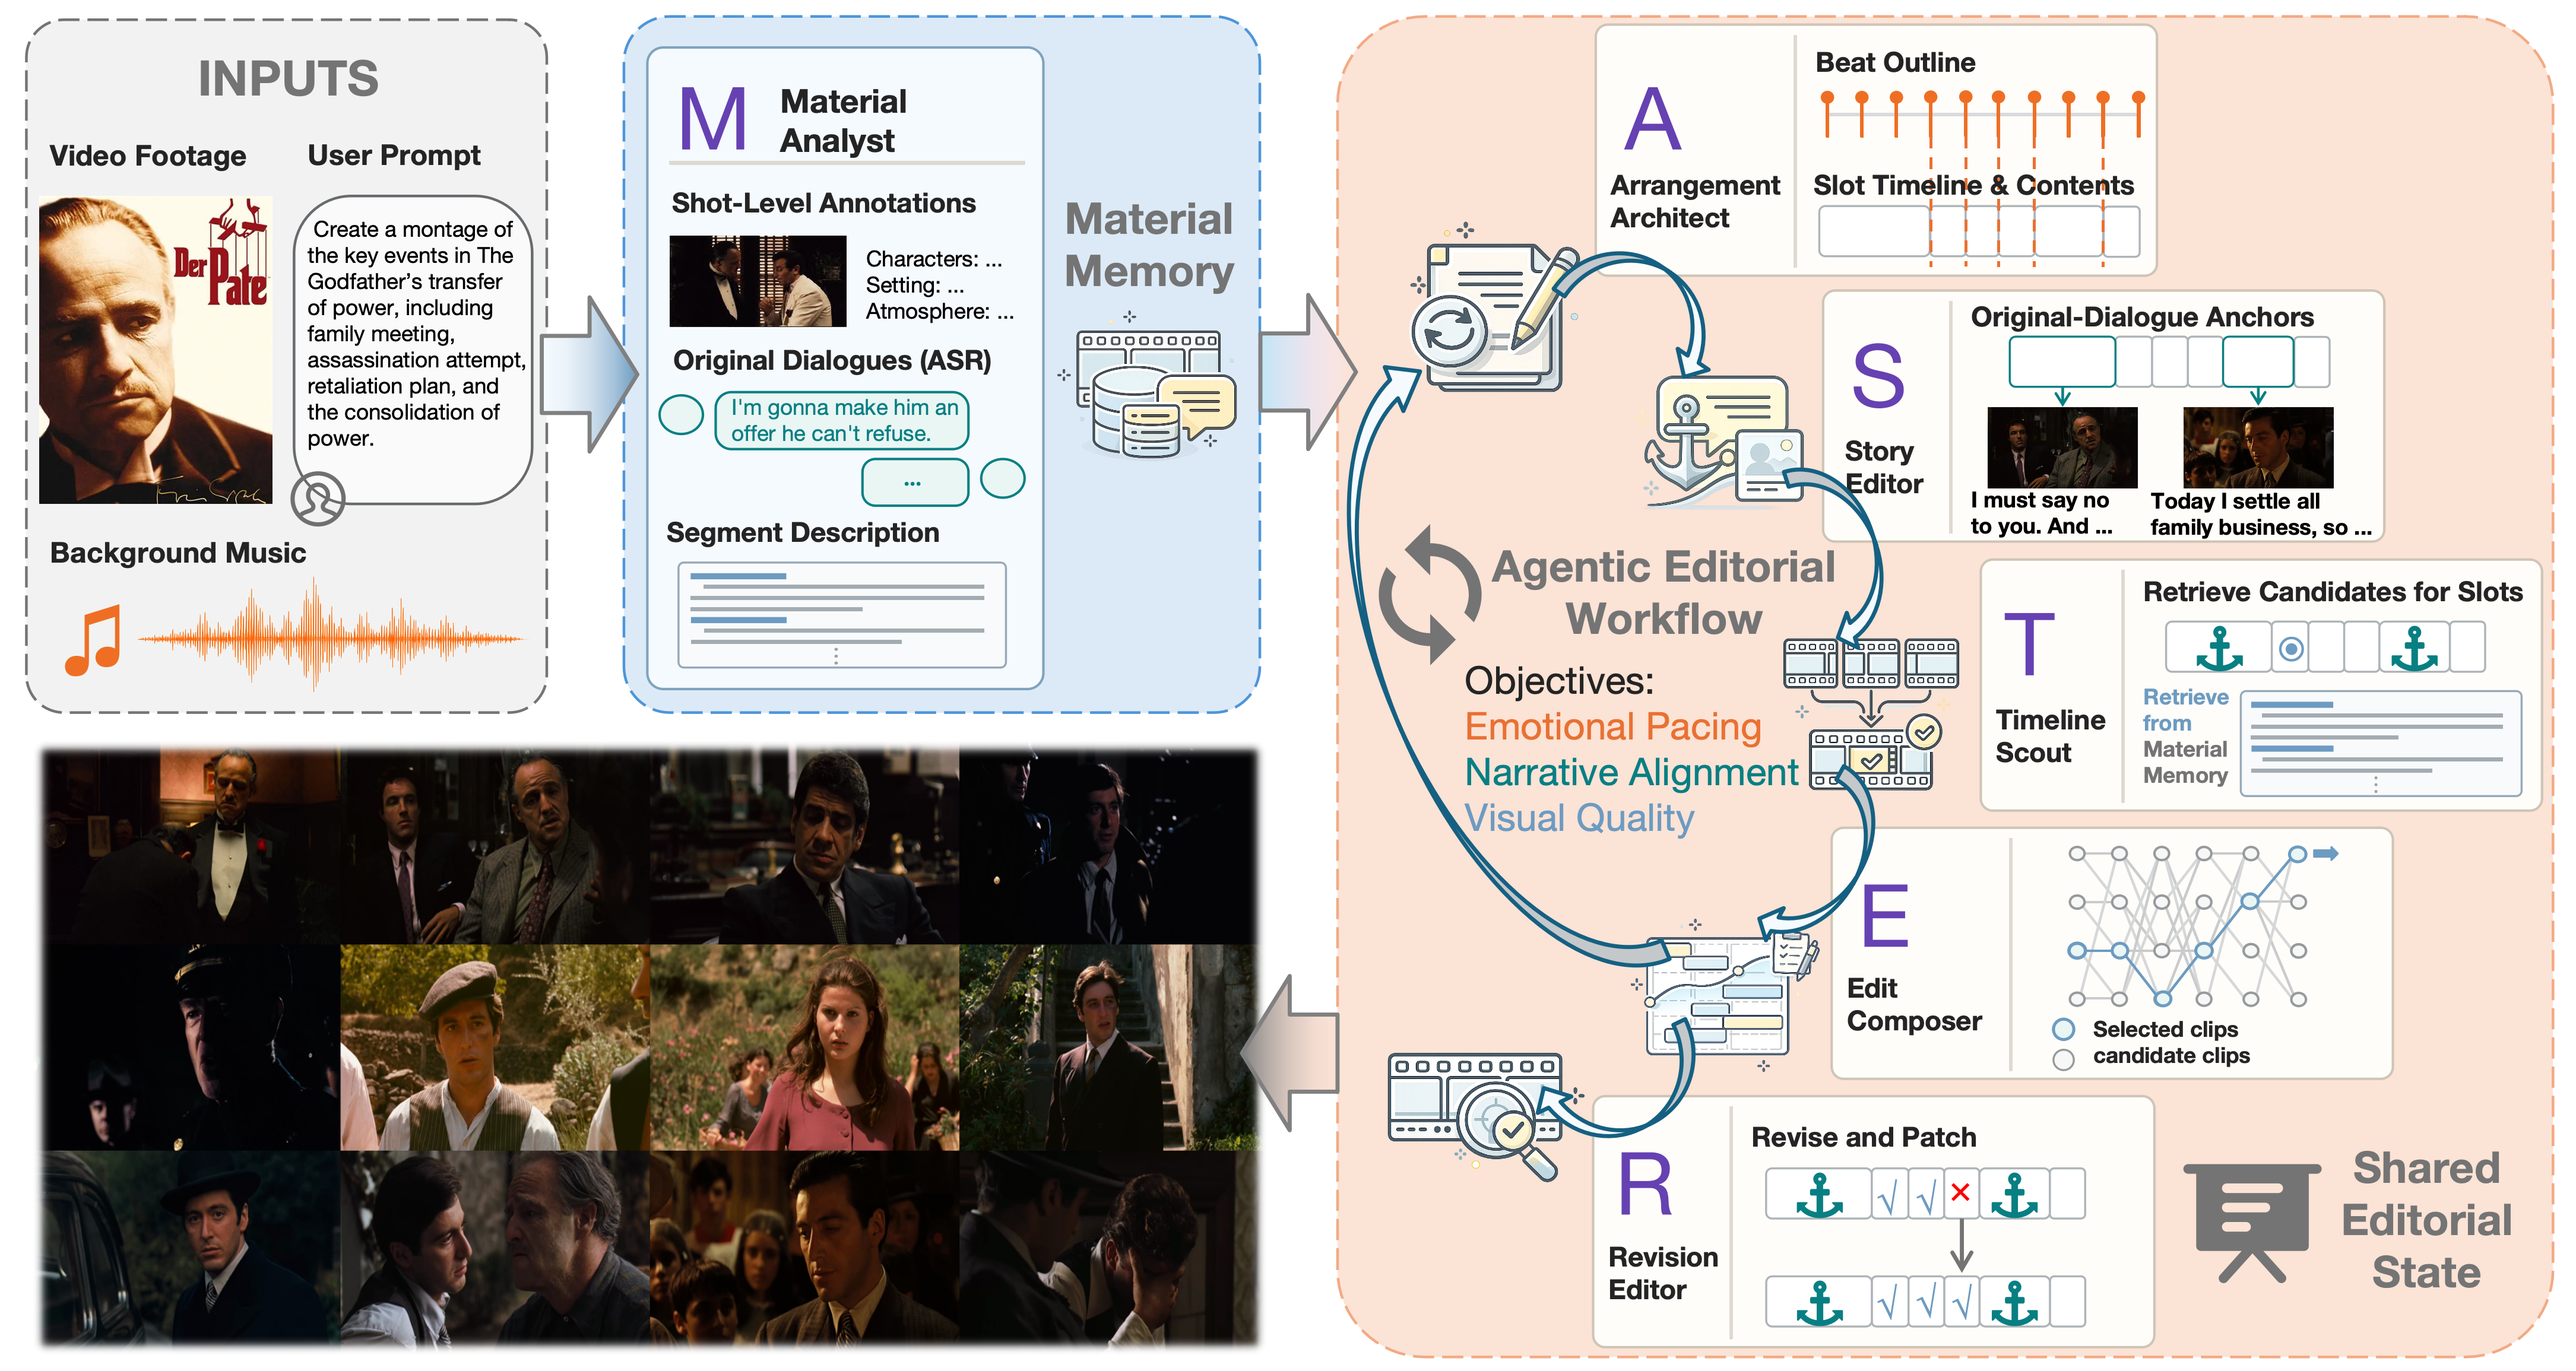
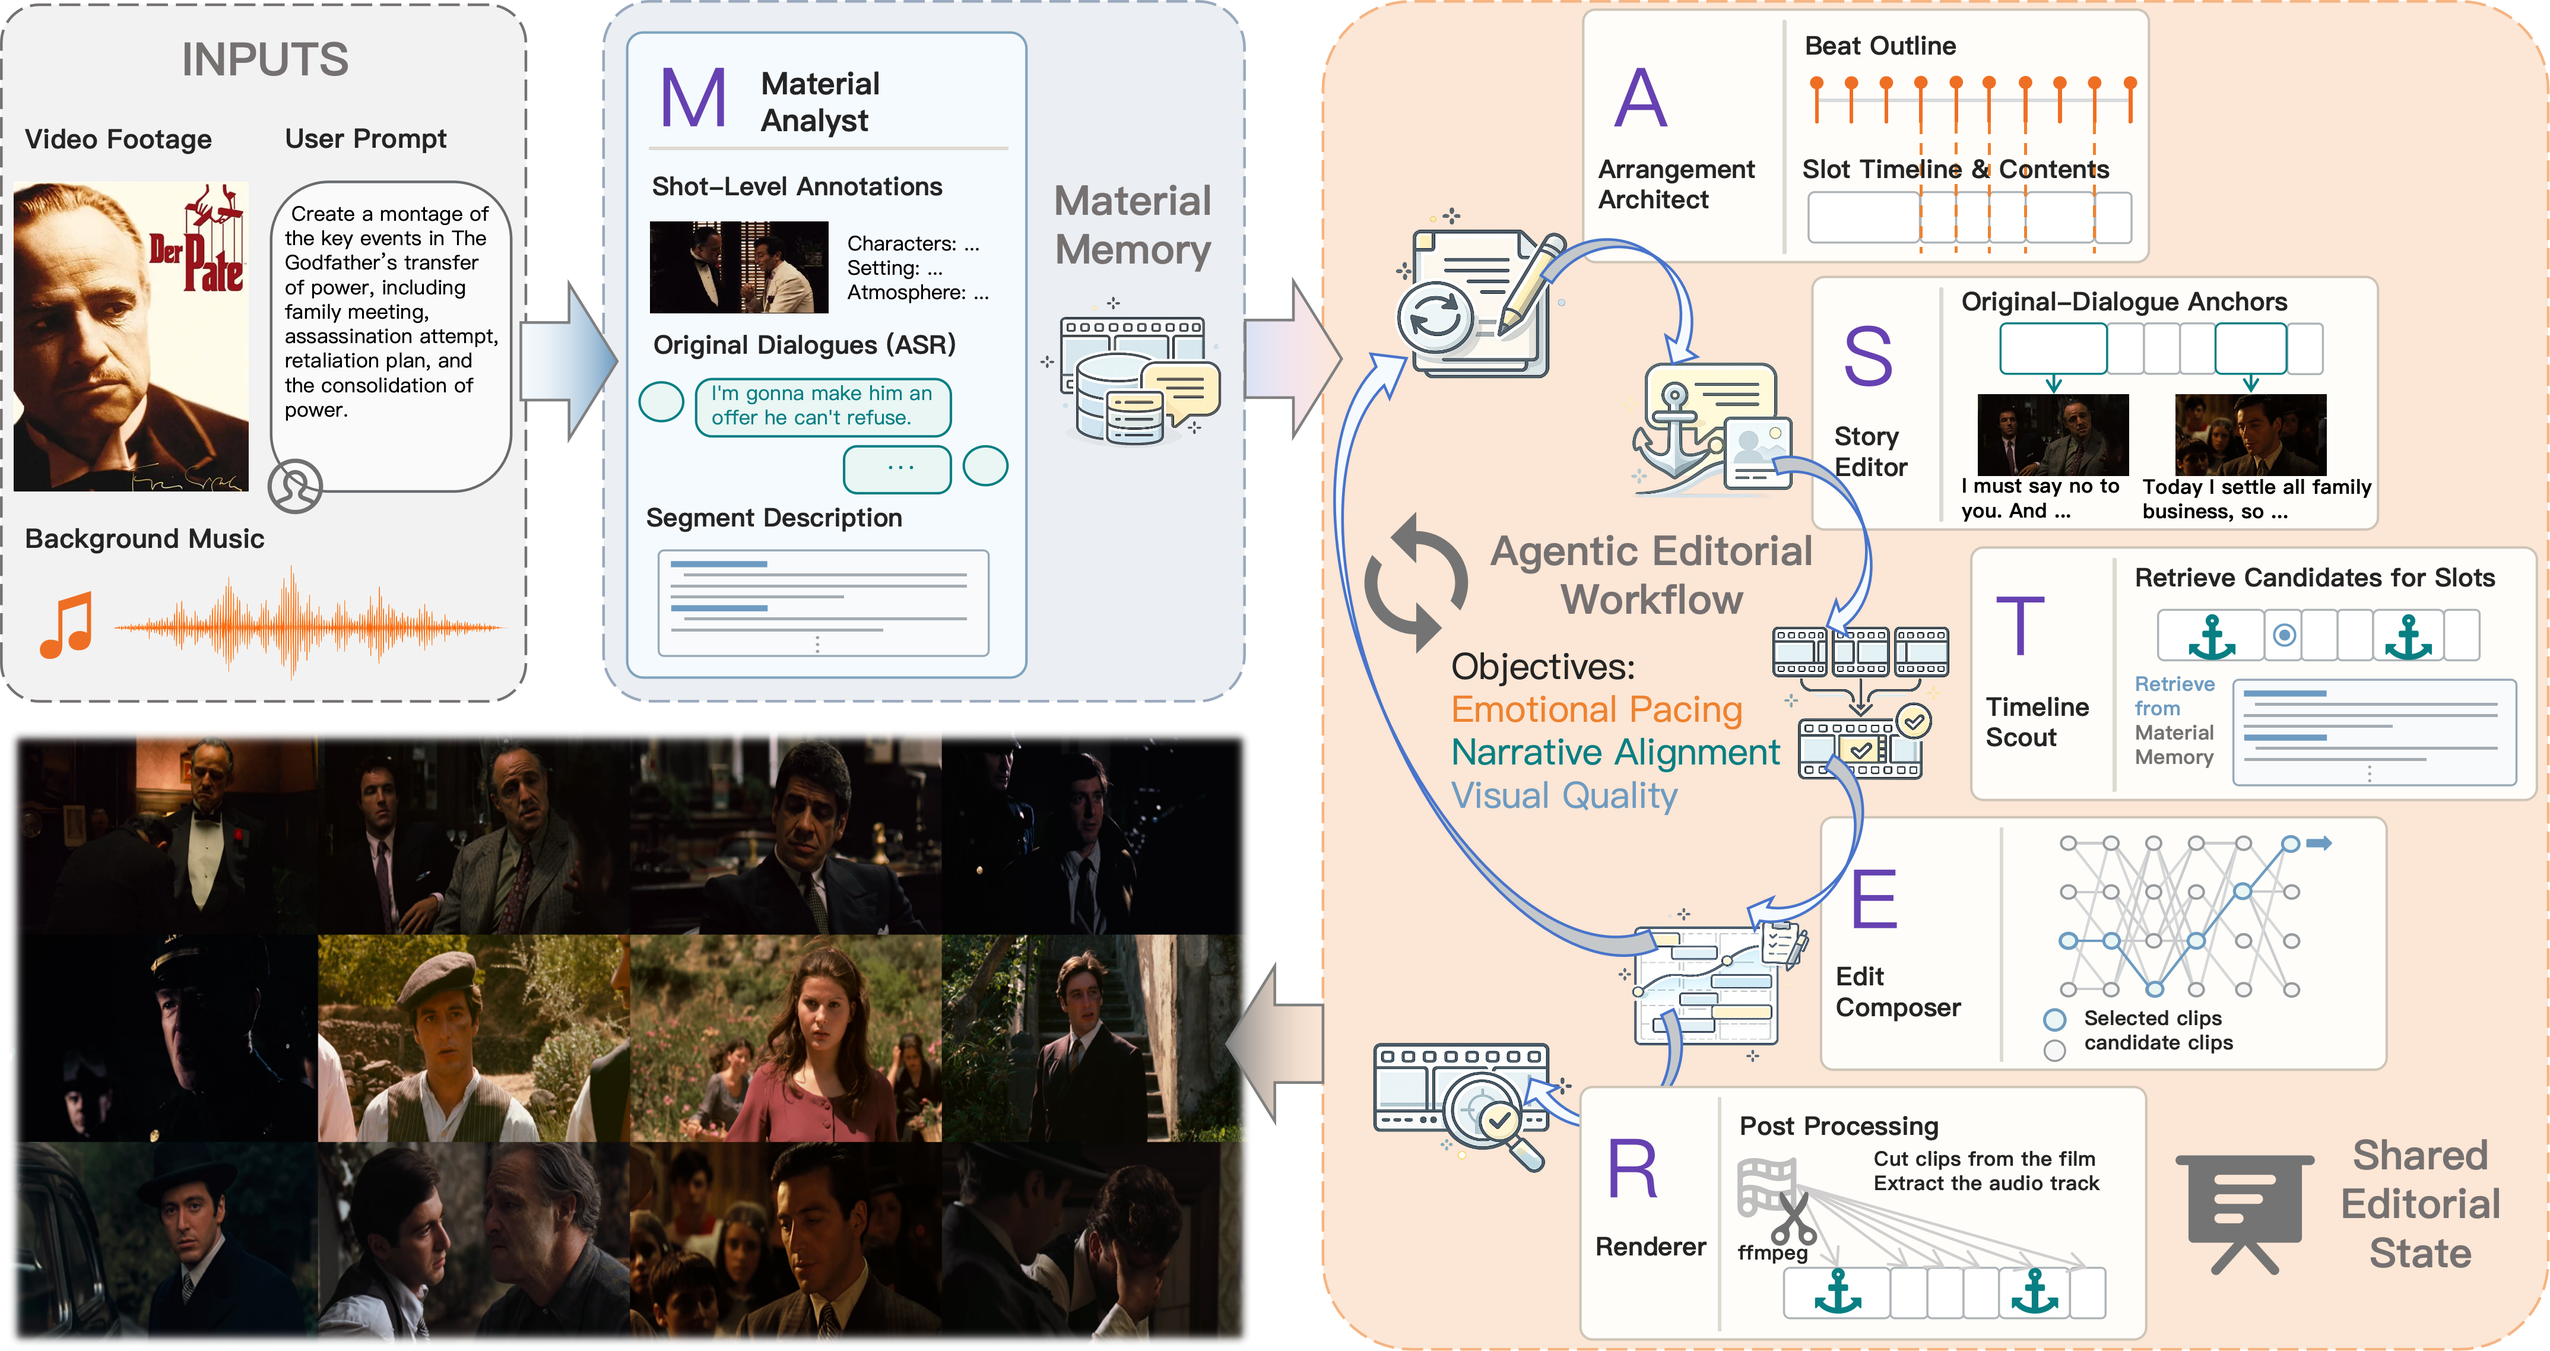
update readme and diagram

Changed region(s): [[0.0, 0.0, 1.0, 1.0], [0.4991, 0.0312, 0.5303, 0.0624]]

diff --git a/web/src/features/shared/AsterProgress.tsx b/web/src/features/shared/AsterProgress.tsx
@@ -98,7 +98,7 @@ export function AsterProgress({
         ) : null}
       </header>
       <ol className="aster-progress__milestones">
-        {agents.map(([letter, agent]) => {
+        {agents.map(([letter, agent], index) => {
           const state = runComplete
             ? 'complete'
             : (milestoneStates.get(agent) ?? 'queued')
@@ -110,7 +110,7 @@ export function AsterProgress({
                 <strong>{t(`progress.agents.${key}.name`)}</strong>
                 {!compact ? <small>{t(`activity.${state}`)}</small> : null}
               </span>
-              <MilestoneIcon state={state} />
+              {index < agents.length - 1 ? <MilestoneIcon state={state} /> : null}
             </li>
           )
         })}

diff --git a/web/src/features/projects/RunProgress.test.tsx b/web/src/features/projects/RunProgress.test.tsx
@@ -268,6 +268,10 @@ describe('live ASTER execution progress', () => {
     expect(screen.getByText('Timeline Scout')).toBeVisible()
     expect(screen.getByText('Edit Composer')).toBeVisible()
     expect(screen.queryByText('Revision Editor')).not.toBeInTheDocument()
+    const milestones = screen.getByText('Edit Composer').closest('ol')!
+    expect(milestones.children).toHaveLength(4)
+    expect(milestones.querySelectorAll('li > svg')).toHaveLength(3)
+    expect(milestones.lastElementChild?.querySelector('svg')).toBeNull()
     expect(screen.queryByText(/R · Renderer/)).not.toBeInTheDocument()
     expect(screen.getByText(/Heartbeat/)).toBeVisible()
   })

diff --git a/web/src/styles/workspace.css b/web/src/styles/workspace.css
@@ -3101,7 +3101,7 @@
 }
 .aster-progress__milestones {
   display: grid;
-  grid-template-columns: repeat(5, minmax(0, 1fr));
+  grid-template-columns: repeat(4, minmax(0, 1fr));
   margin: 0;
   padding: var(--space-5);
   list-style: none;

diff --git a/README_EN.md b/README_EN.md
@@ -4,7 +4,7 @@ English | [简体中文](README.md)
 
 **CutMaster: Let the MASTER team edit.**
 
-CutMaster is a multi-agent automatic editing framework for long-form video. It assigns material understanding, rhythmic arrangement, story anchoring, candidate retrieval, sequence composition, and final review to six specialized roles, balancing three editorial objectives in one workflow:
+CutMaster is a multi-agent automatic editing framework for long-form video. Its MASTER team consists of five analysis and planning agents (M/A/S/T/E) and a deterministic Renderer (R), covering material understanding, rhythmic arrangement, story anchoring, candidate retrieval, sequence composition, and final rendering. It balances three editorial objectives in one workflow:
 
 - **Narrative alignment**: key source dialogue anchors the story, characters, and prompt intent.
 - **Emotional pacing**: the Slot structure follows musical sections, beats, accents, and energy.
@@ -13,7 +13,9 @@ CutMaster is a multi-agent automatic editing framework for long-form video. It a
 > CutMaster employs a MASTER team of specialized agents that progressively transforms long-form footage into a narrative-aligned, emotionally paced, and visually coherent montage.
 
 <p align="center">
-  <img src="assets/framework.png" alt="CutMaster MASTER multi-agent editing architecture" width="100%">
+  <a href="assets/framework.png">
+    <img src="assets/framework.png" alt="CutMaster MASTER architecture: Material Memory, A/S/T/E planning loop, and R rendering" width="100%">
+  </a>
 </p>
 
 <p align="center"><em>Starting from long-form footage and user intent, the MASTER team collaborates on material understanding, editorial decisions, sequence optimization, and final rendering.</em></p>
@@ -22,7 +24,7 @@ CutMaster is a multi-agent automatic editing framework for long-form video. It a
 
 The complete CutMaster workflow is organized as a **MASTER** team:
 
-| Letter | Agent | Code entry | Editorial responsibility |
+| Letter | Role | Code entry | Editorial responsibility |
 |---|---|---|---|
 | **M** | **Material Analyst** | `workflow/analyser/material_analyst.py` | Builds reusable memory for video Shots, Segments, dialogue, and story summaries, as well as complete music tracks |
 | **A** | **Arrangement Architect** | `workflow/planners/arrangement_architect.py` | Projects Music Memory onto the target duration and arranges Slot duration, rhythm, emotional pacing, and narrative structure |
@@ -93,7 +95,7 @@ flowchart LR
 
     T -. "zero valid group trajectory / targeted repair" .-> A
     E -. "no feasible chronological path / replan" .-> A
-    A -. "refresh anchors after Slot changes" .-> S
+    A -. "retain legal anchors / rebuild partitions" .-> S
 ```
 
 The executable call structure is:
@@ -109,7 +111,7 @@ Worker Adapter --------> ManagedJobExecutor
                                        ├── ManagedMaterialAnalysisExecutor
                                        │   └── Analyser → MaterialAnalystAgent
                                        ├── RunPlanningExecutor
-                                       │   └── Planners → ASTERTeam → A/S/T/E/R
+                                       │   └── Planners → ASTERTeam → A/S/T/E
                                        └── ManagedRenderExecutor → Renderer
 ```
 
@@ -121,7 +123,7 @@ tools, repositories, or output directories.
 
 ### Agent–tool boundary
 
-- **Agents make editorial decisions**: they understand material, plan structure, select story anchors, construct the candidate space, compose the sequence, and review the script.
+- **Agents make editorial decisions**: they understand material, plan structure, select story anchors, construct the candidate space, and compose the sequence. There is no additional automatic script-review stage.
 - **Tools provide capabilities**: ASR, complete-track music analysis, media access, Music Profile projection, motion computation, visual scoring, and ASTER coordination feedback live under `workflow/analyser/tools/` and `workflow/planners/tools/`; Material lifecycle belongs to `app.materials`.
 - **The Planners stage finalizes the edit**: source-window optimization, beat adjustment, and output-frame allocation are frozen in an immutable `RenderPlan`.
 - **Renderer executes the plan**: it prepares dialogue audio, renders, and mixes without accessing LLM/VLM services or mutating ASTER artifacts.
@@ -167,8 +169,7 @@ When an Anchor falls inside a multi-Slot group, its Slot leaves ordinary
 retrieval. Ordinary Slots before and after it become separate child groups bound
 to Planning Segments cut by the fixed Anchor picture, such as
 `segment_0010_01` and `segment_0010_02`. Every child group must fit inside its
-Planning Segment; an impossible split rejects the Anchor response and retries
-Story planning.
+Planning Segment.
 Story Editor selects consecutive dialogue endpoints. The backend validates the
 complete picture window and partition capacity, keeps the largest legal subset
 when returned Anchors conflict, and permits no Anchor when none is strong and legal.
@@ -177,8 +178,8 @@ Ordinary clips keep their source audio muted. Only selected Dialogue Anchors are
 
 ### 4. Candidate space with closed-loop repair
 
-Timeline Scout retrieves one complete trajectory for a Slot Group at a time.
-That trajectory contains one ordered, non-overlapping source window for every
+Timeline Scout retrieves a batch of complete trajectories for each Slot Group.
+Each trajectory contains one ordered, non-overlapping source window for every
 member Slot, all inside the assigned Segment or Planning Segment. If any item
 fails duration, motion, or VLM validation, the complete trajectory is rejected;
 items from different trajectories are never mixed.
@@ -189,8 +190,10 @@ empty array are valid responses; no retry fills the batch. One accepted trajecto
 is sufficient. Model, media, and VLM execution failures propagate as system
 errors; missing decoded frames are not evidence of static content. Only a normally
 returned empty batch, or one whose trajectories are all semantically or visually rejected,
-triggers whole-group Arrangement repair with concrete rejection evidence, and the failed Group/Segment binding is
-then forbidden by backend validation. If every item of every batch trajectory is
+triggers whole-group Arrangement repair with concrete rejection evidence, legal
+Segment choices, and neighboring constraints. Arrangement can revise content,
+required subjects, and Segment bindings, or retain the original Segment when legal;
+semantic failures do not permanently ban a binding. If every item of every batch trajectory is
 static, the Segment itself becomes unavailable. Targeted repair preserves every
 still-legal Anchor, deterministically rebuilds Story partitions, and retrieves
 only changed complete group contracts. Retrieval never widens one Slot into an
@@ -226,12 +229,18 @@ This example follows the prompt “Create a montage of the key events in *The Go
   </a>
 </p>
 
-<p align="center"><em>Starting from the prompt and Material Memory, the ASTER team arranges, anchors, retrieves, composes, and revises a 60-second timeline of the Corleone power transfer. Click the image for the full-size view.</em></p>
+<p align="center"><em>Starting from the prompt and Material Memory, the ASTER team arranges, anchors, retrieves, composes, and renders a 60-second timeline of the Corleone power transfer. Click the image for the full-size view.</em></p>
+
+The figure expands individual Slots to illustrate candidates and adjacent-clip scores;
+actual retrieval and search operate on complete Slot Group trajectories. “Retrieve Again”
+illustrates feedback and repair, not replacement of every rejected candidate: one accepted
+complete trajectory is sufficient, and only a group with zero valid trajectories triggers
+local replanning followed by retrieval.
 
 - **Arrangement Architect** maps the music into five acts and binds adjacent Slots into Segment-backed groups with exact duration budgets.
 - **Story Editor** anchors decisive plot turns with source dialogue, splits surrounding ordinary Slots into child groups, and lets longer lines continue through L-cuts.
-- **Timeline Scout** validates complete candidate trajectories for those groups, rejecting the whole trajectory when any member fails identity, relevance, visibility, or motion checks.
-- **Edit Composer** combines unary shot scores with pairwise compatibility and selects a globally coherent chronological path of whole trajectories.
+- **Timeline Scout** validates complete candidate trajectories for those groups, rejects a trajectory when any member fails validation, and retains other accepted trajectories. Only a group with no valid candidates returns its failure evidence for local replanning.
+- **Edit Composer** combines unary shot scores with pairwise compatibility and uses Beam Search to select a high-scoring chronological path of whole trajectories with a feasible suffix; this is not a guarantee of a global optimum.
 - **Renderer** realizes the frozen plan without changing candidate selections.
 
 ## Quick start
@@ -312,7 +321,7 @@ A Project has **Project Setup**, **Runs**, and **Outputs** tabs. After saving
 Materials, Editing Intent, and Target Duration, **Start editing** creates an
 immutable ASTER Run and an isolated local subprocess executes the real
 Planners call. Failed Runs support Retry; Interrupted Runs resume only from a
-validated complete A/S/T/E/R agent boundary, including the replan-pending
+validated complete A/S/T/E agent boundary, including the replan-pending
 boundary; successful Runs support Run again, and historical Runs can be
 deleted when safe. Run detail and Activity show the same durable progress and
 model-usage projection.
